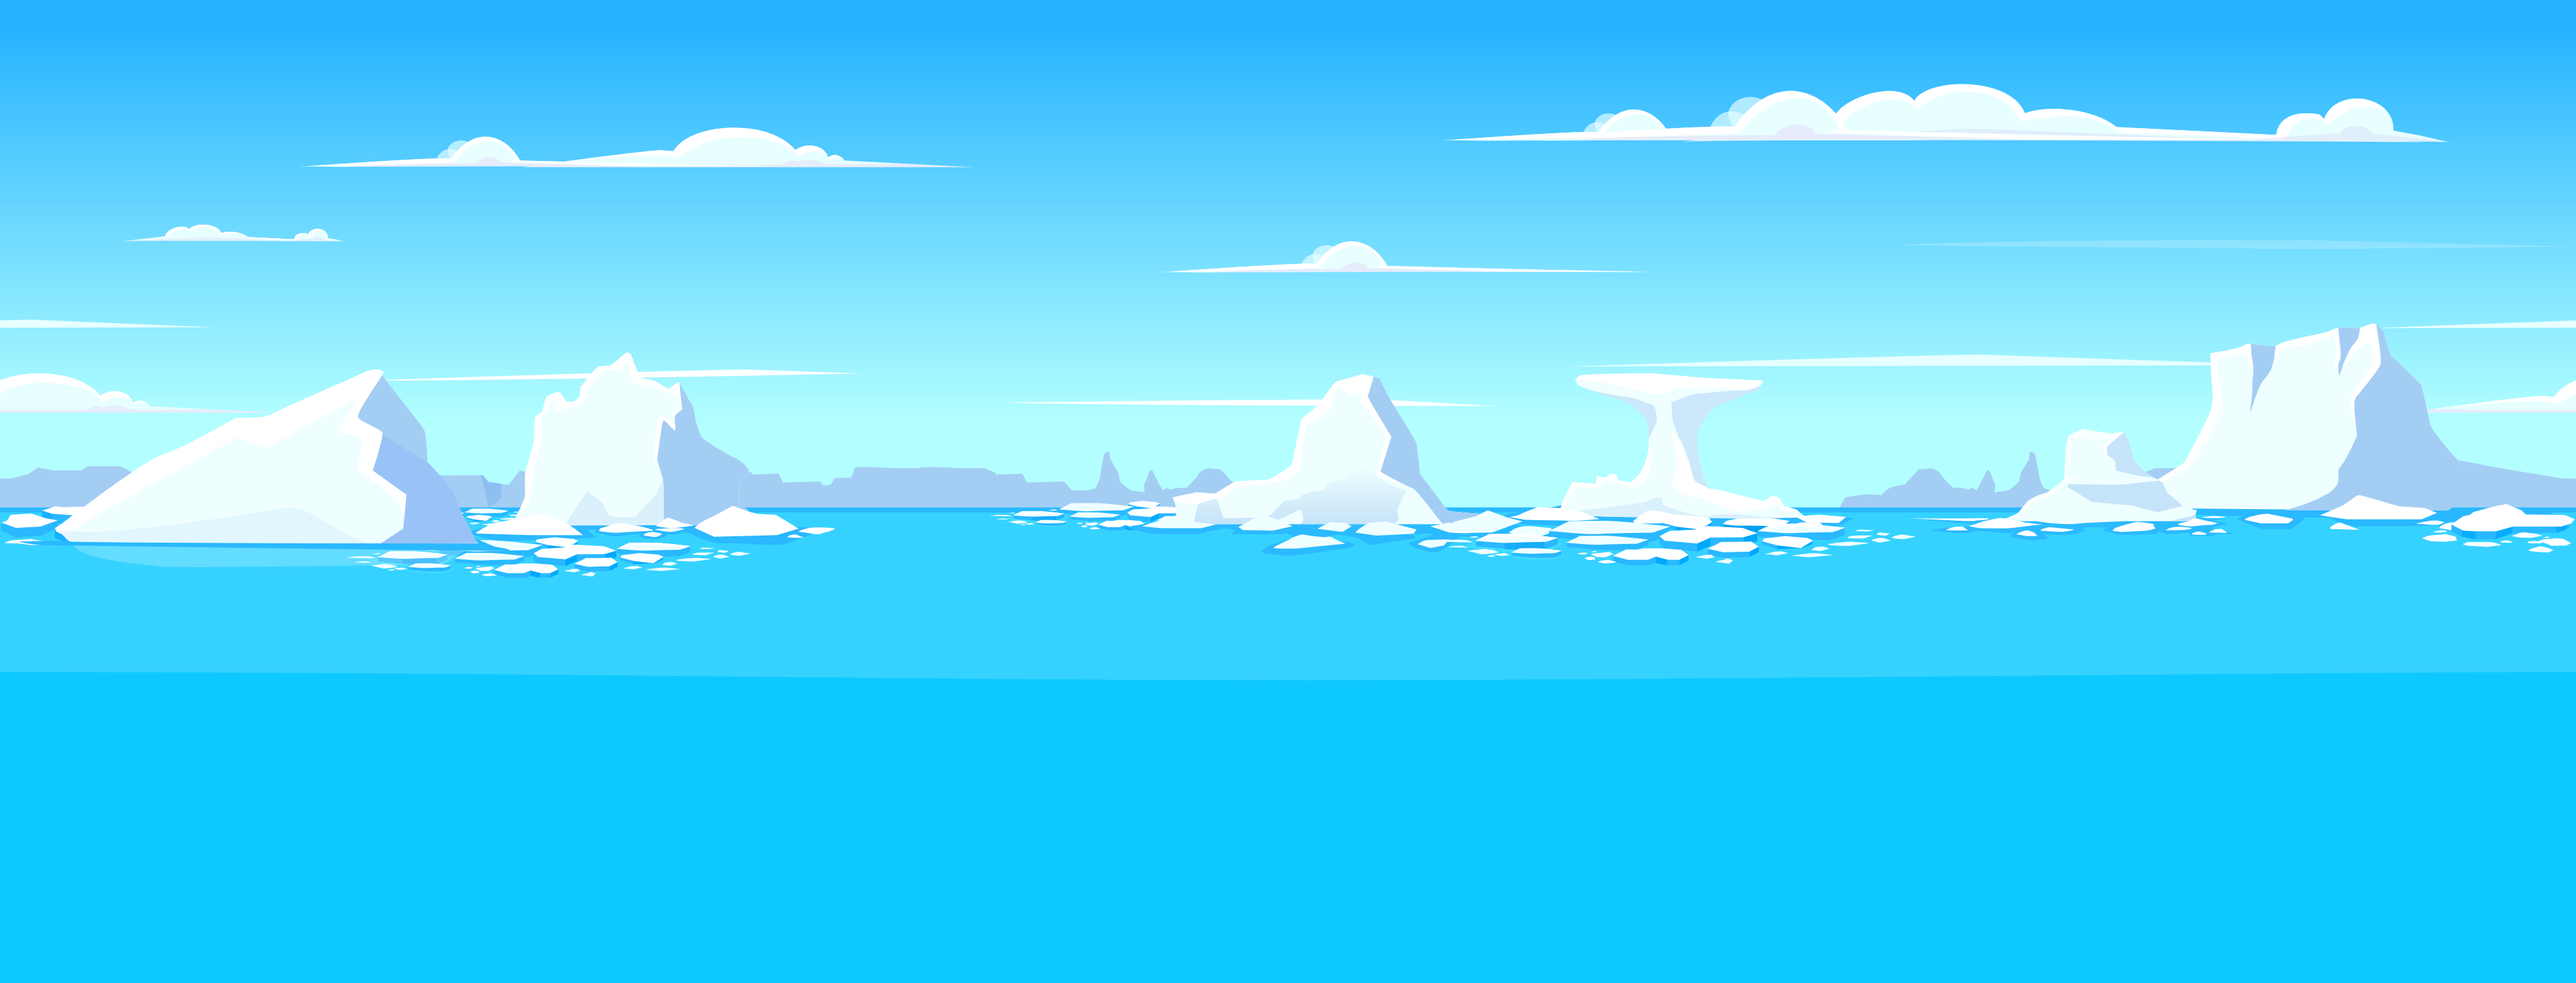
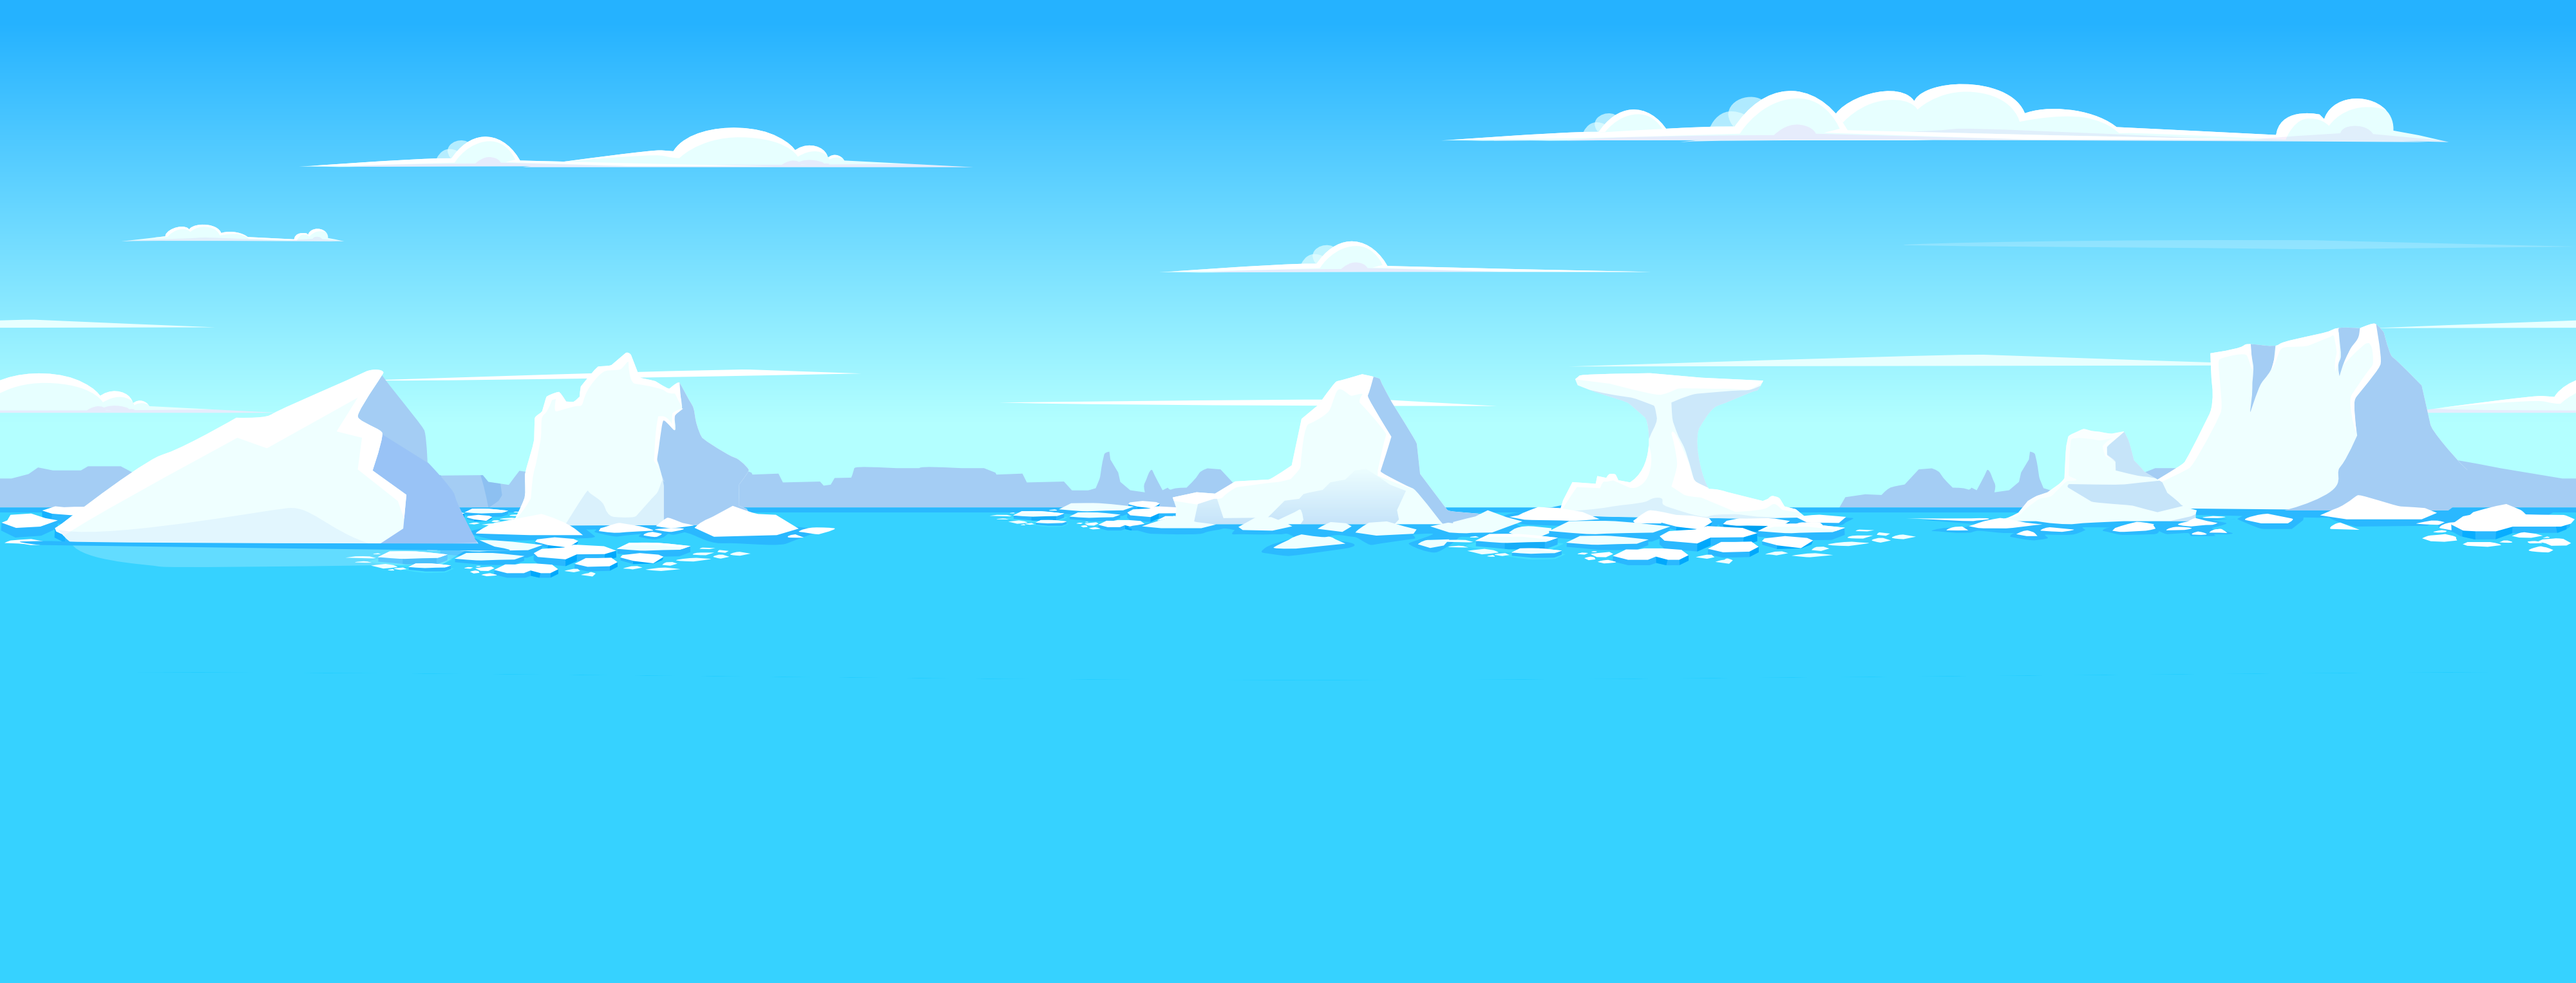
fix: update colors for capper

diff --git a/src/main/kotlin/sc/gui/AppStyle.kt b/src/main/kotlin/sc/gui/AppStyle.kt
@@ -18,11 +18,11 @@ class AppStyle: Stylesheet() {
         
         private val resources = ResourceLookup(this)
         
-        private val colorBackground = c("#0ec9ff")
+        private val colorBackground = c("#36d2ff") //c("#0ec9ff")
         
         const val pieceOpacity = 1.0
         
-        val fontSizeRegular = Font.getDefault().also { logger.debug("System Font: $it") }.size.pt * 2
+        val fontSizeRegular = Font.getDefault().also { logger.debug("System Font: $it") }.size.pt * 2.5
         val fontSizeBig = fontSizeRegular * 1.2
         val fontSizeHeader = fontSizeRegular * 2
         

diff --git a/src/main/kotlin/sc/gui/view/BoardView.kt b/src/main/kotlin/sc/gui/view/BoardView.kt
@@ -384,5 +384,5 @@ class BoardView: View() {
 private fun Node.setClass(className: String, add: Boolean = true) =
         if(add) addClass(className) else removeClass(className)
 
-private val Team.colorAdjust
+val Team.colorAdjust
     get() = index - 0.4
